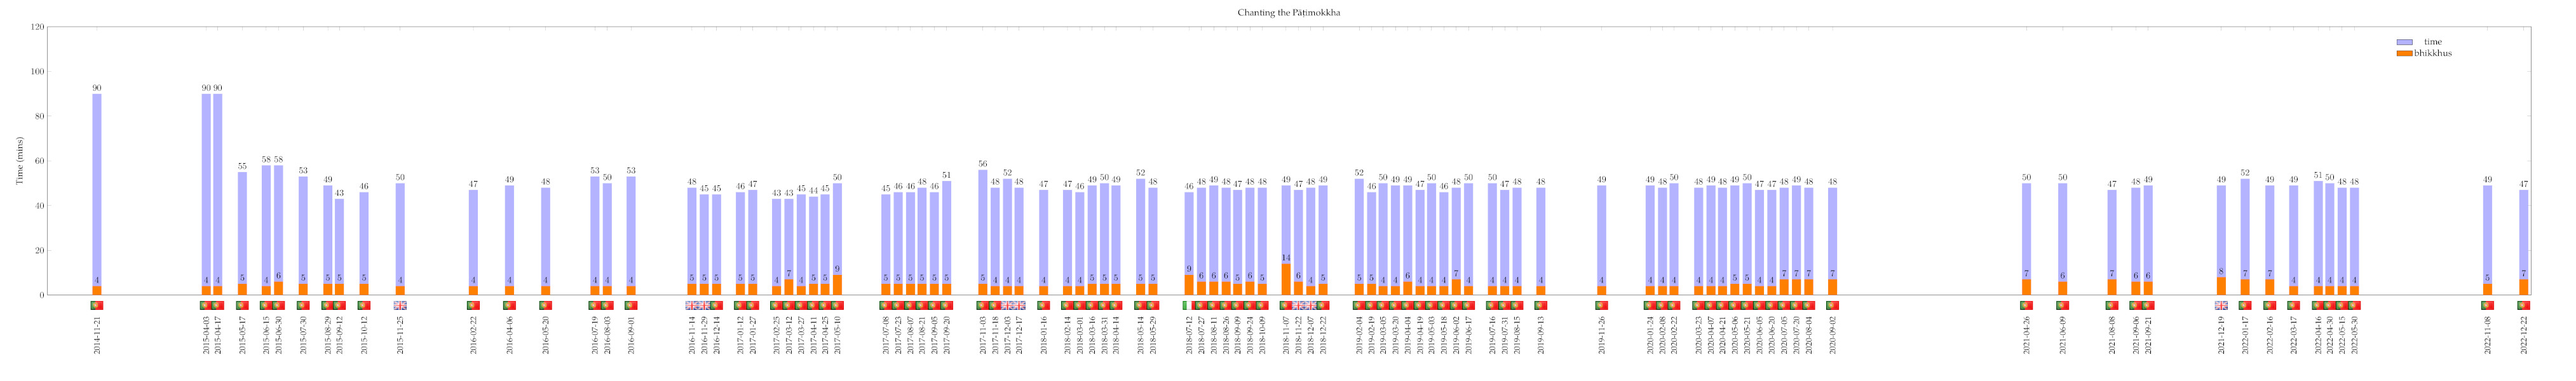
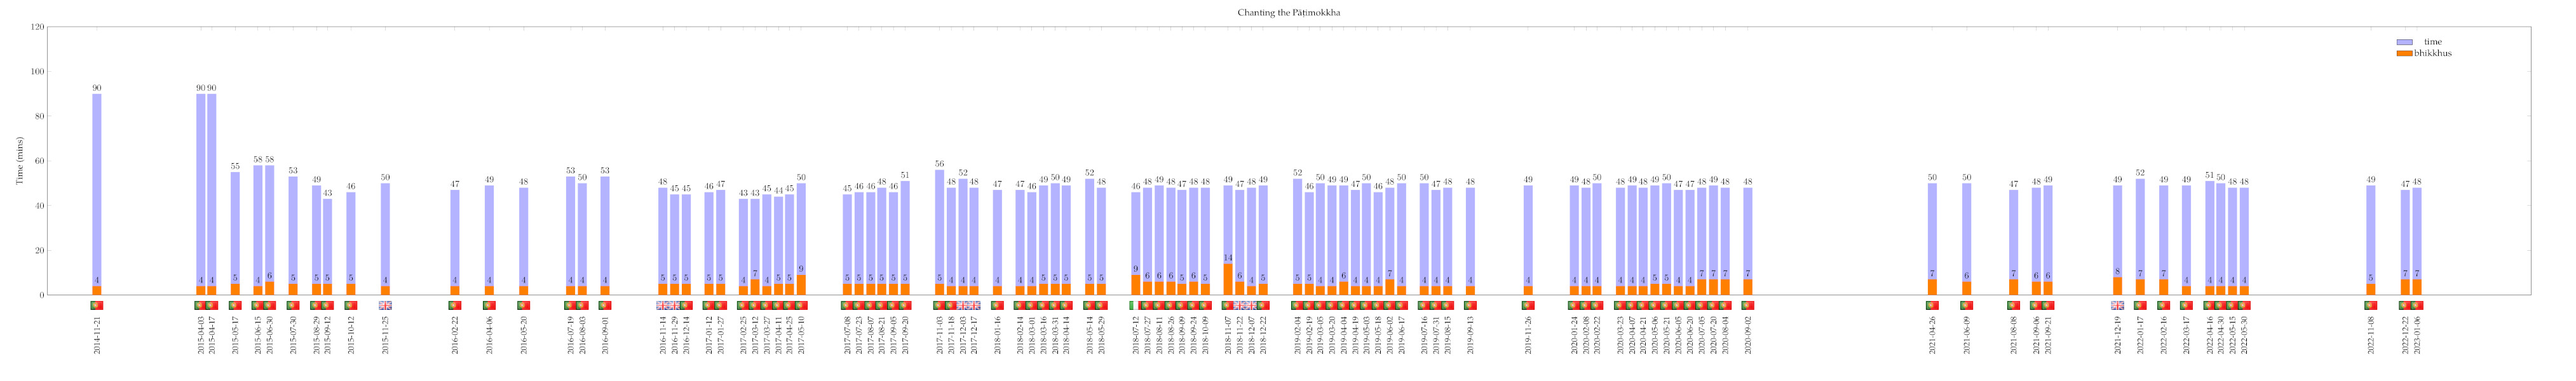
upd

Changed region(s): [[0.0622, 0.21, 0.7148, 0.93], [0.7459, 0.45, 0.9946, 0.93]]

diff --git a/src/patimokkha-chanting-chart.tex b/src/patimokkha-chanting-chart.tex
@@ -58,7 +58,7 @@
     ylabel=Time (mins),
     xtick=data,
     xmin=2014-11-20,
-    xmax=2022-12-31,
+    xmax=2023-06-01,
     enlarge x limits={rel=0.02,lower},
     xticklabel style={yshift=-20pt,rotate=90,anchor=east,font=\small},
     xticklabel={\year-\month-\day},
@@ -188,6 +188,7 @@
   \node [anchor=south, yshift=-20pt] at (axis cs:2022-05-30,0) {\includegraphics[width=5mm]{pt}};
   \node [anchor=south, yshift=-20pt] at (axis cs:2022-11-08,0) {\includegraphics[width=5mm]{pt}};
   \node [anchor=south, yshift=-20pt] at (axis cs:2022-12-22,0) {\includegraphics[width=5mm]{pt}};
+  \node [anchor=south, yshift=-20pt] at (axis cs:2023-01-06,0) {\includegraphics[width=5mm]{pt}};
 
 \end{axis}
 \end{tikzpicture}
